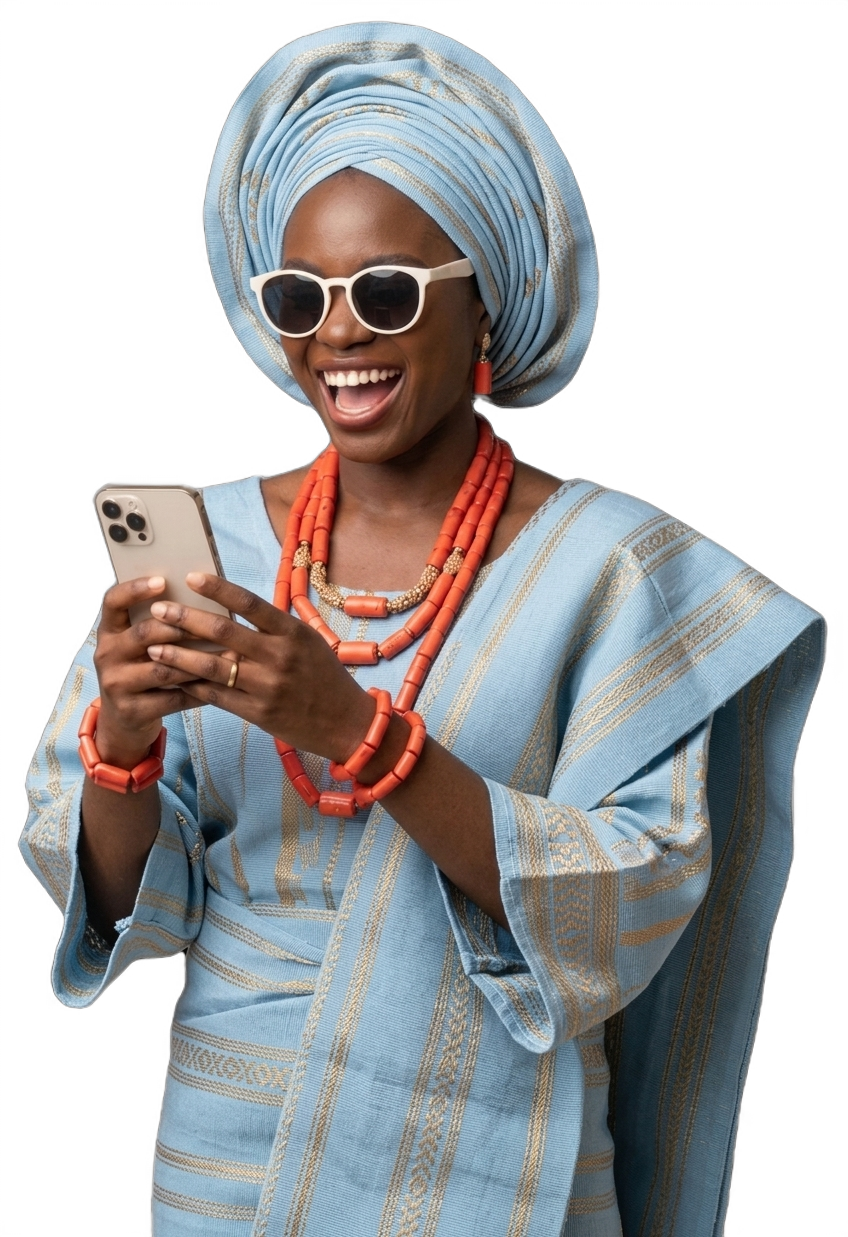
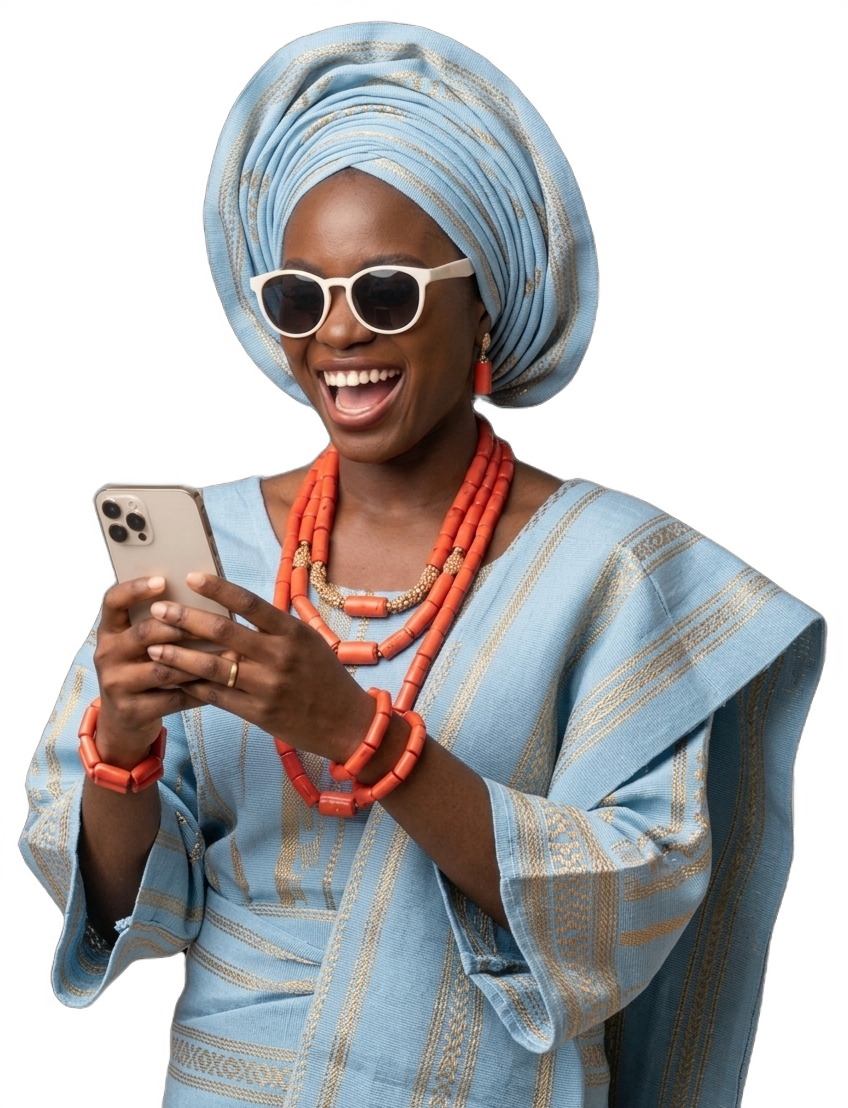
Refactor Hero desktop to use a side-by-side grid layout

diff --git a/Frontend/src/components/Hero.tsx b/Frontend/src/components/Hero.tsx
@@ -23,26 +23,9 @@ export default function Hero() {
         </div>
 
         {/* CONTENT */}
-        <div className="relative flex items-center min-h-[420px] lg:min-h-[520px]">
+        <div className="relative flex flex-col lg:grid lg:grid-cols-2 lg:items-center lg:gap-12 min-h-[420px] lg:min-h-[520px]">
           
-          {/* DESKTOP HERO IMAGE (BACKGROUND LAYER) */}
-          <div className="absolute left-[25%] top-[-40px] w-auto h-auto pointer-events-none hidden lg:block z-0">
-            <div className="relative w-[750px] h-[520px] overflow-hidden">
-              <Image
-                src="/images/heroimagenew.png"
-                alt="Happy shopper with shopping bags"
-                fill
-                priority
-                className="object-contain object-top"
-              />
-              {/* Subtle left-to-right gradient to blend with background behind text */}
-              <div className="absolute inset-y-0 left-0 w-[200px] bg-gradient-to-r from-white via-white/50 to-transparent pointer-events-none z-10" />
-              {/* Bottom ground merge gradient */}
-              <div className="absolute bottom-0 left-0 right-0 h-[120px] bg-gradient-to-t from-white via-white/80 to-transparent pointer-events-none z-10" />
-            </div>
-          </div>
-
-          <div className="relative z-10 max-w-[680px] mx-auto text-center lg:mx-0 lg:text-left">
+          <div className="relative z-10 max-w-[680px] mx-auto text-center lg:mx-0 lg:text-left order-2 lg:order-1">
             {/* HEADING */}
             <h1
               className="
@@ -107,8 +90,6 @@ export default function Hero() {
                 Start Selling Today!
               </Link>
 
-             
-
               {/* Arrow Button (Desktop Only) */}
               <button
                 className="
@@ -130,7 +111,22 @@ export default function Hero() {
             </div>
           </div>
 
-
+          {/* DESKTOP HERO IMAGE (RIGHT SIDE) */}
+          <div className="relative w-full h-0 lg:h-[520px] pointer-events-none hidden lg:block z-0 order-1 lg:order-2">
+            <div className="relative w-full h-full overflow-hidden">
+              <Image
+                src="/images/heroimagenew.png"
+                alt="Happy shopper with shopping bags"
+                fill
+                priority
+                className="object-contain object-top"
+              />
+              {/* Subtle left-to-right gradient to blend with background behind text */}
+              <div className="absolute inset-y-0 left-0 w-[200px] bg-gradient-to-r from-white via-white/50 to-transparent pointer-events-none z-10" />
+              {/* Bottom ground merge gradient */}
+              <div className="absolute bottom-0 left-0 right-0 h-[120px] bg-gradient-to-t from-white via-white/80 to-transparent pointer-events-none z-10" />
+            </div>
+          </div>
         </div>
       </div>
 